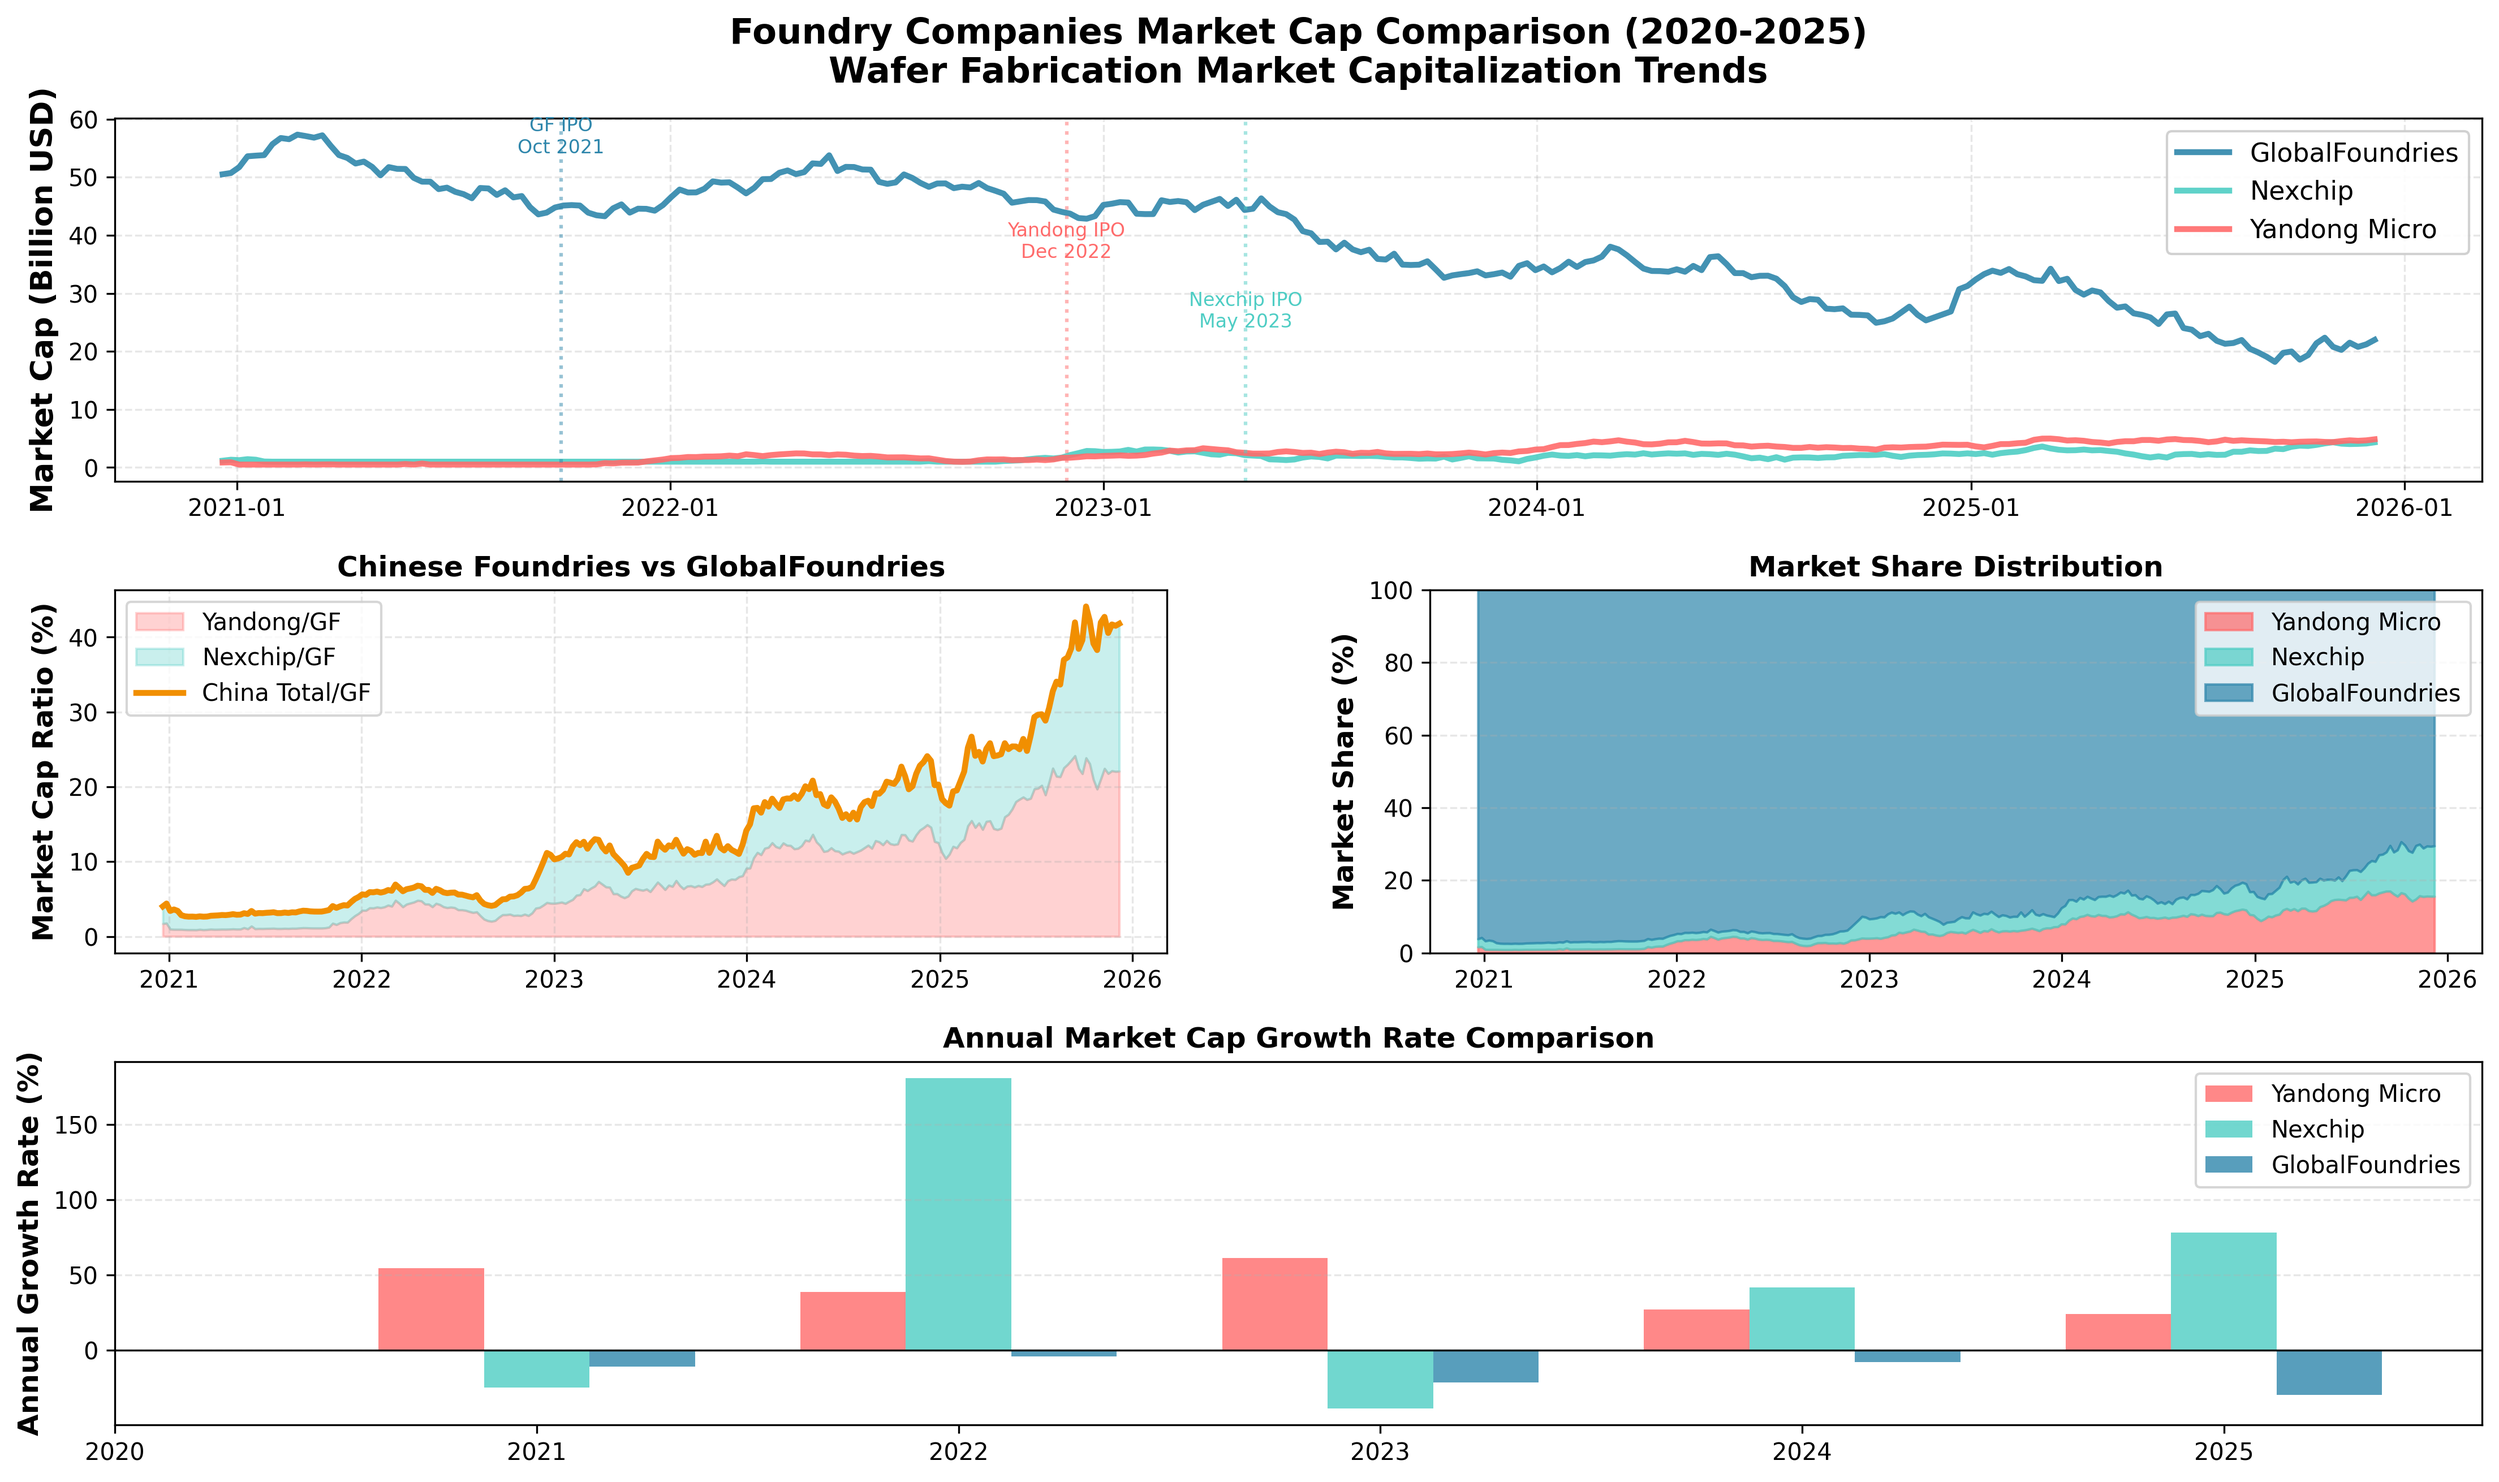
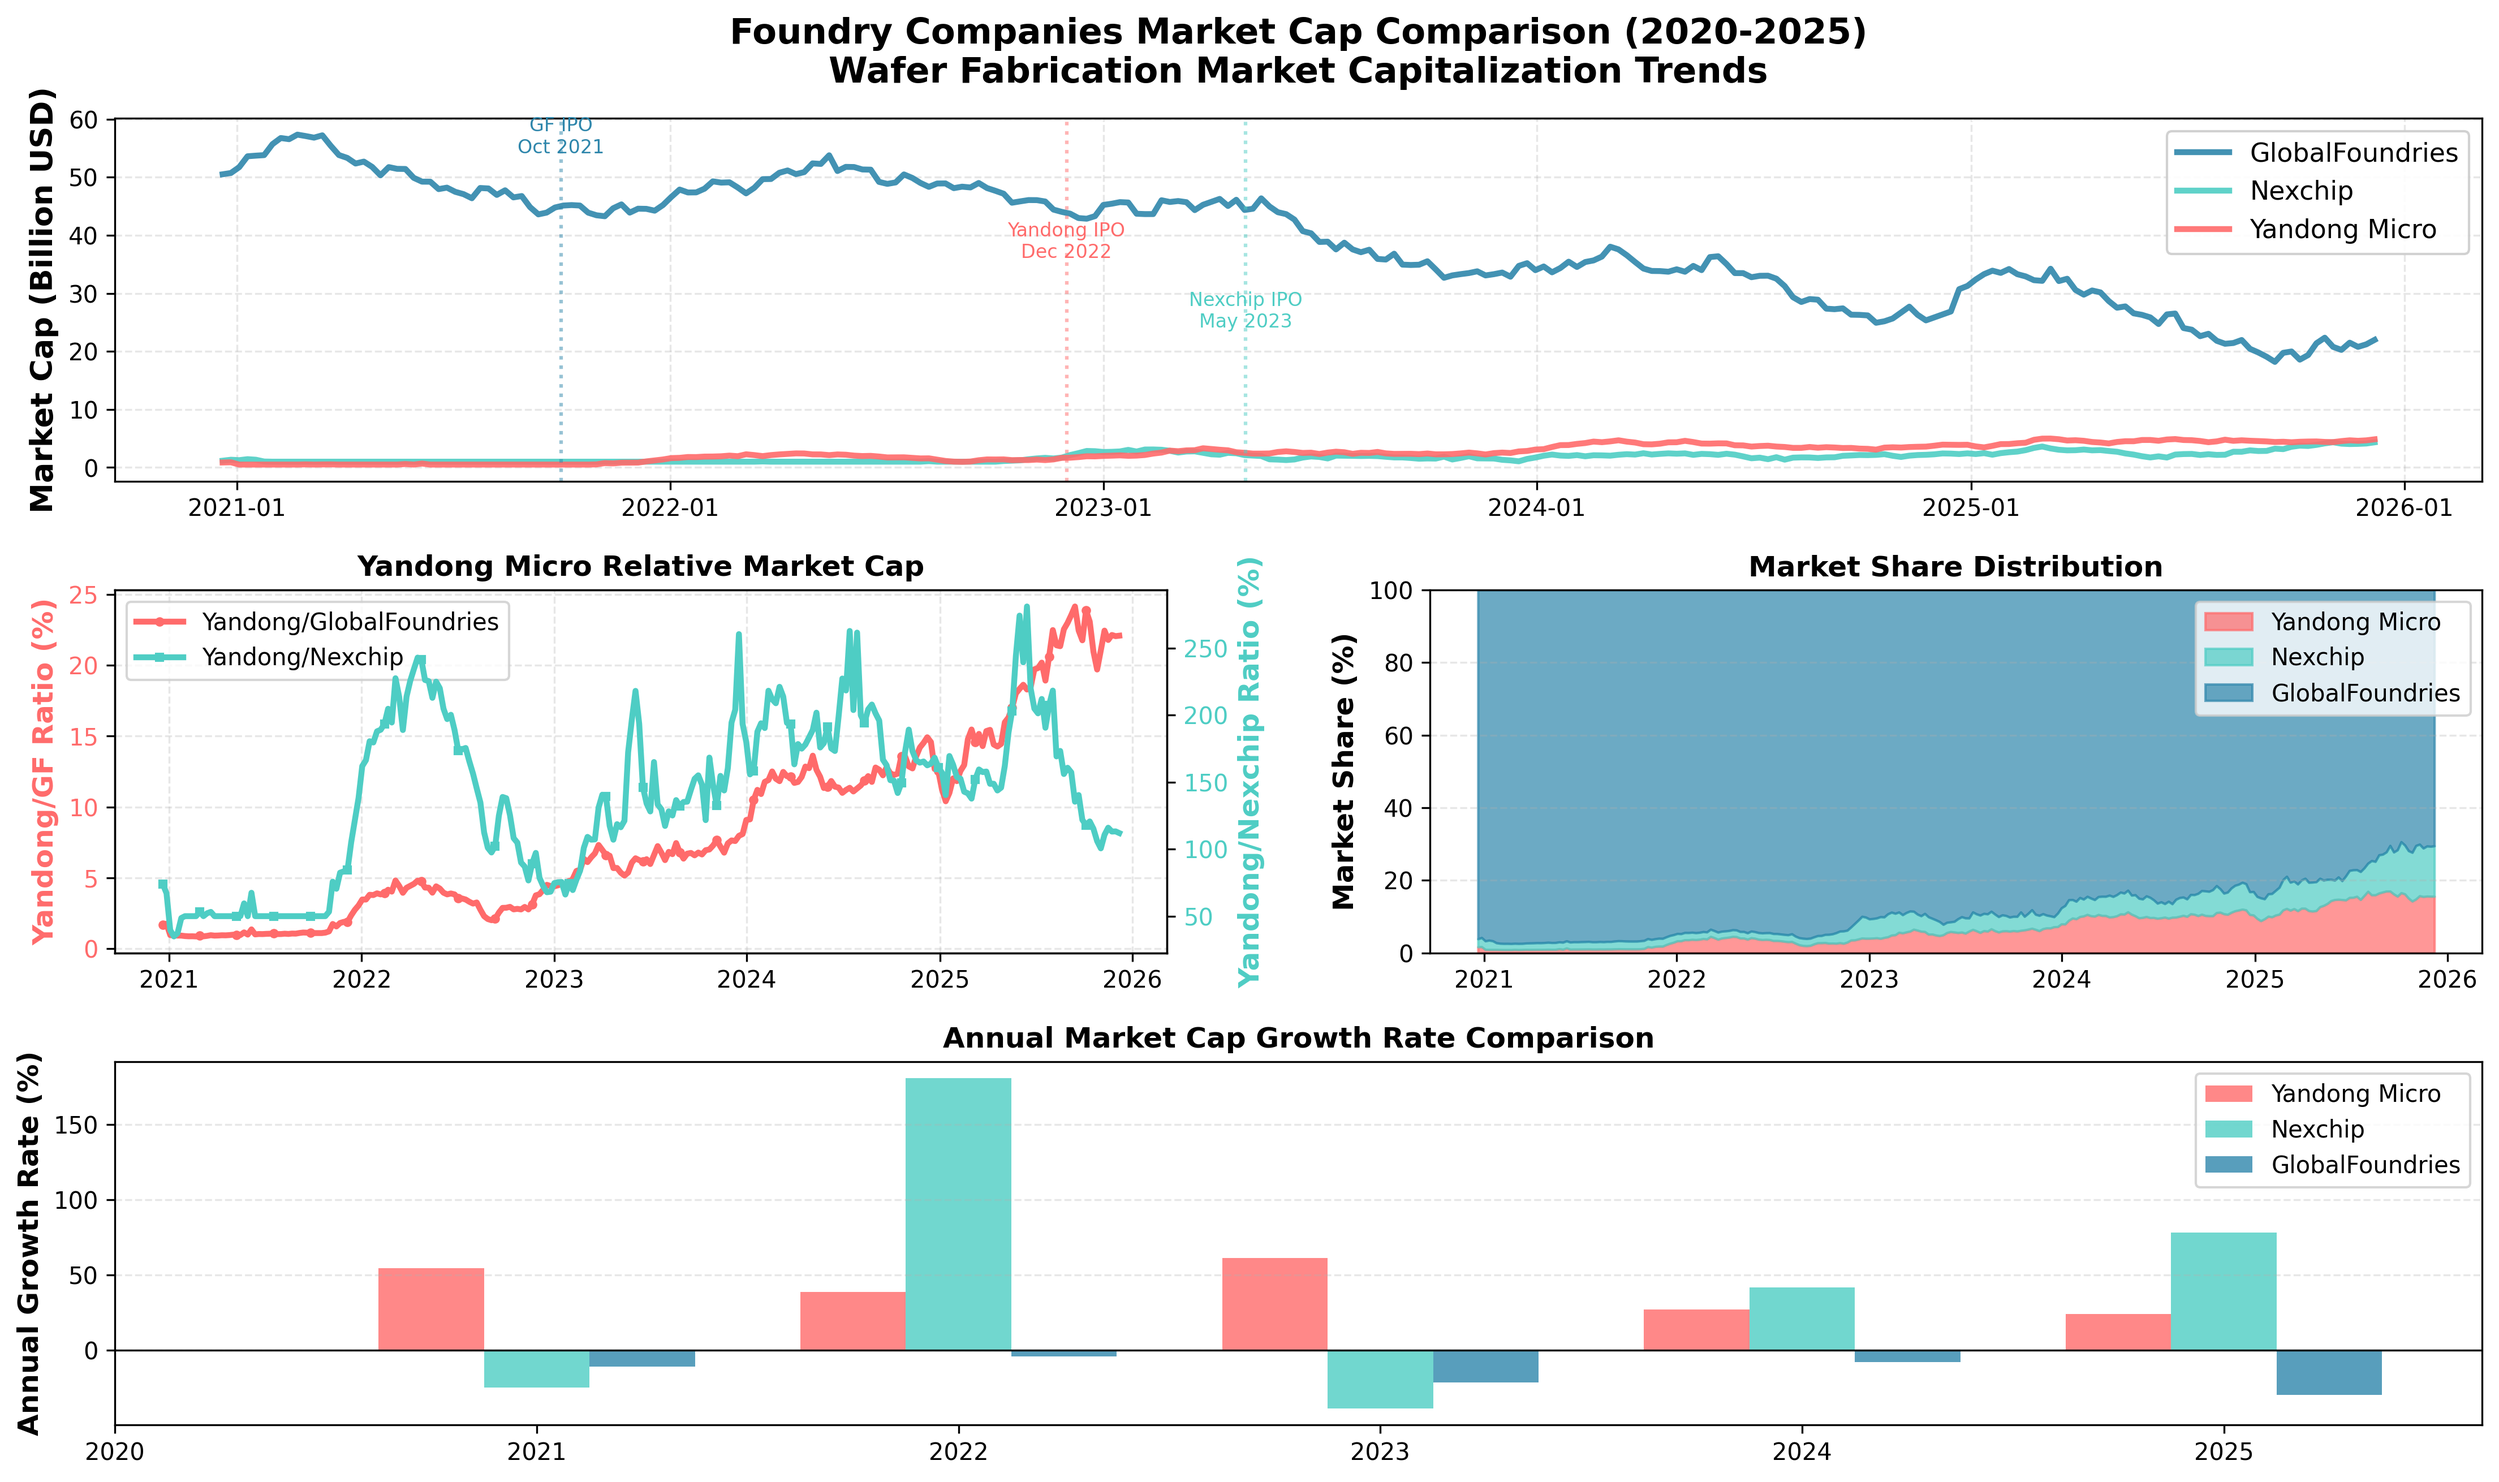
重点分析燕东微相对市值
优化分析重点：
- 新增燕东/晶合集成比值计算和展示
- 图2改为双Y轴，突出燕东的两个关键比值：
  * 燕东/晶合集成（左轴）
  * 燕东/GF（右轴）
- 统计输出优先显示燕东相关指标

关键发现：
- 燕东/晶合集成: 73.8% → 112% (+38.1pp)
- 燕东已超越晶合集成，现在比晶合集成大12%
- 燕东/GF: 1.7% → 22.1% (+20.4pp)
- 燕东增长速度CAGR 41.3%，远超晶合集成30%和GF -15.3%

Changed region(s): [[0.0625, 0.4019, 0.4998, 0.6492], [0.0, 0.371, 0.3748, 0.6492]]

diff --git a/02_semiconductor_market_cap_comparison/foundry_5year_comparison.py b/02_semiconductor_market_cap_comparison/foundry_5year_comparison.py
@@ -93,8 +93,9 @@ def generate_foundry_5year_data():
 
     df.set_index('date', inplace=True)
 
-    # 计算市值比值
+    # 计算市值比值 - 重点关注燕东微的相对市值
     df['ratio_yandong_gf'] = df['yandong_cap'] / df['gf_cap']
+    df['ratio_yandong_nexchip'] = df['yandong_cap'] / df['nexchip_cap']
     df['ratio_nexchip_gf'] = df['nexchip_cap'] / df['gf_cap']
     df['ratio_china_gf'] = (df['yandong_cap'] + df['nexchip_cap']) / df['gf_cap']
 
@@ -138,24 +139,31 @@ def plot_foundry_5year_comparison(df):
     ax1.text(pd.Timestamp('2023-05-01'), ax1.get_ylim()[1]*0.4, 'Nexchip IPO\nMay 2023',
              ha='center', fontsize=8, color='#4ECDC4')
 
-    # === 图2：中国代工厂 vs GF 比值（左下）===
+    # === 图2：燕东微相对市值对比（左下）===
     ax2 = fig.add_subplot(gs[1, 0])
 
-    ax2.fill_between(df.index, 0, df['ratio_yandong_gf']*100,
-                     alpha=0.3, color='#FF6B6B', label='Yandong/GF')
-    ax2.fill_between(df.index, df['ratio_yandong_gf']*100,
-                     df['ratio_china_gf']*100,
-                     alpha=0.3, color='#4ECDC4', label='Nexchip/GF')
+    # 燕东/GF 和 燕东/晶合集成 双Y轴
+    ax2_right = ax2.twinx()
 
-    ax2.plot(df.index, df['ratio_china_gf']*100,
-             linewidth=2.5, color='#F18F01', label='China Total/GF')
+    line1 = ax2.plot(df.index, df['ratio_yandong_gf']*100,
+                     linewidth=2.5, color='#FF6B6B', label='Yandong/GlobalFoundries', marker='o', markersize=3, markevery=10)
+    line2 = ax2_right.plot(df.index, df['ratio_yandong_nexchip']*100,
+                           linewidth=2.5, color='#4ECDC4', label='Yandong/Nexchip', marker='s', markersize=3, markevery=10)
 
-    ax2.set_ylabel('Market Cap Ratio (%)', fontsize=12, fontweight='bold')
-    ax2.set_title('Chinese Foundries vs GlobalFoundries',
+    ax2.set_ylabel('Yandong/GF Ratio (%)', fontsize=12, fontweight='bold', color='#FF6B6B')
+    ax2_right.set_ylabel('Yandong/Nexchip Ratio (%)', fontsize=12, fontweight='bold', color='#4ECDC4')
+    ax2.set_title('Yandong Micro Relative Market Cap',
                   fontsize=12, fontweight='bold')
-    ax2.legend(loc='upper left', fontsize=10)
+
+    # 合并图例
+    lines = line1 + line2
+    labels = [l.get_label() for l in lines]
+    ax2.legend(lines, labels, loc='upper left', fontsize=10)
+
     ax2.grid(True, alpha=0.3, linestyle='--')
     ax2.xaxis.set_major_formatter(mdates.DateFormatter('%Y'))
+    ax2.tick_params(axis='y', labelcolor='#FF6B6B')
+    ax2_right.tick_params(axis='y', labelcolor='#4ECDC4')
 
     # === 图3：各公司市值占比堆叠图（右下）===
     ax3 = fig.add_subplot(gs[1, 1])
@@ -234,10 +242,20 @@ def print_foundry_statistics(df):
         print(f"  Trough: ${df[col].min():.1f}B")
 
     print("\n" + "="*80)
-    print("Competitive Analysis")
+    print("Competitive Analysis - Yandong Micro's Relative Market Cap")
     print("="*80)
 
-    print(f"\nYandong/GF Ratio:")
+    print(f"\n【Key Metric】 Yandong/Nexchip Ratio:")
+    print(f"  2020: {df['ratio_yandong_nexchip'].iloc[0]:.2%}")
+    print(f"  2025: {df['ratio_yandong_nexchip'].iloc[-1]:.2%}")
+    ratio_yn_change = (df['ratio_yandong_nexchip'].iloc[-1] - df['ratio_yandong_nexchip'].iloc[0])*100
+    print(f"  Change: {ratio_yn_change:+.1f}pp")
+    if df['ratio_yandong_nexchip'].iloc[-1] > 1:
+        print(f"  Status: Yandong LARGER than Nexchip by {(df['ratio_yandong_nexchip'].iloc[-1]-1)*100:.1f}%")
+    else:
+        print(f"  Status: Yandong is {df['ratio_yandong_nexchip'].iloc[-1]*100:.1f}% of Nexchip")
+
+    print(f"\n【Key Metric】 Yandong/GlobalFoundries Ratio:")
     print(f"  2020: {df['ratio_yandong_gf'].iloc[0]:.2%}")
     print(f"  2025: {df['ratio_yandong_gf'].iloc[-1]:.2%}")
     print(f"  Change: +{(df['ratio_yandong_gf'].iloc[-1] - df['ratio_yandong_gf'].iloc[0])*100:.1f}pp")
